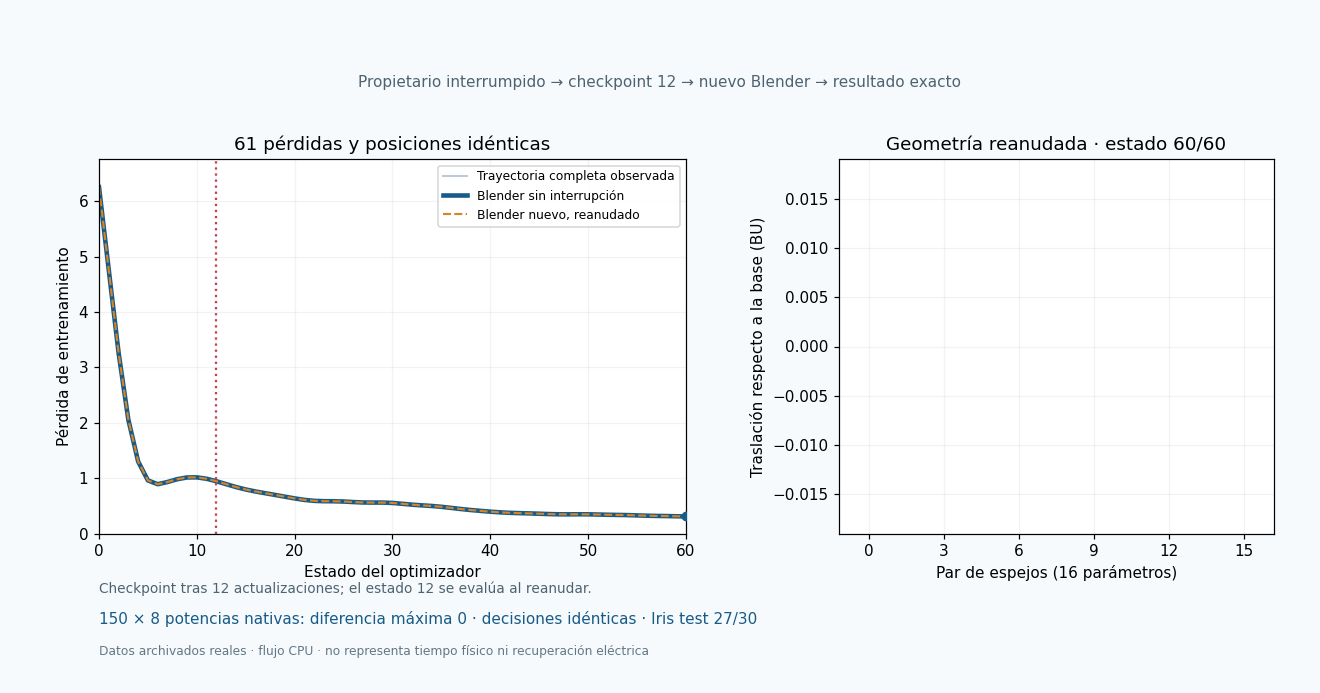
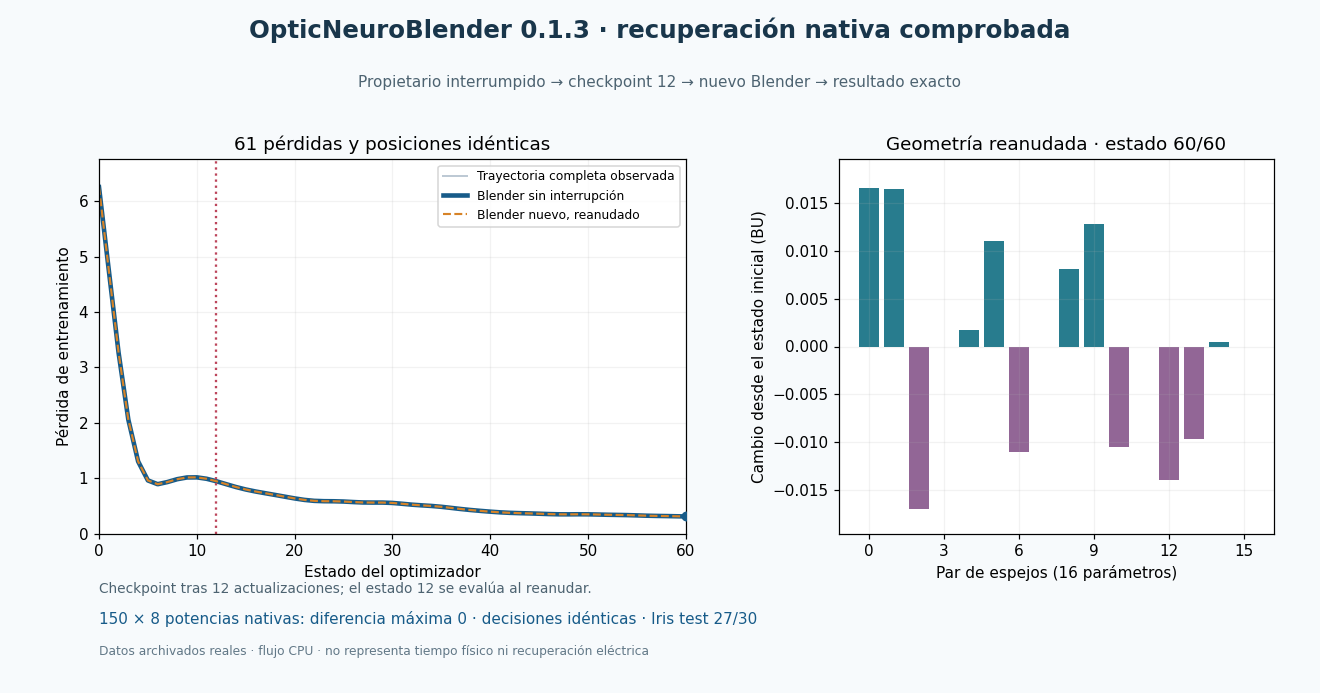
Keep animated recovery title visible and show change from untrained initial state

Changed region(s): [[0.5591, 0.2727, 0.9318, 0.7576], [0.1864, 0.0303, 0.8076, 0.0606], [0.5902, 0.697, 0.6523, 0.7273]]

diff --git a/Tools/build_verified_recovery_animation_v1.py b/Tools/build_verified_recovery_animation_v1.py
@@ -21,7 +21,7 @@ def main():
     power=np.asarray(results[0]['all150_native_powers']);other=np.asarray(results[1]['all150_native_powers']);assert np.array_equal(power,other) and results[0]['all150_predictions']==results[1]['all150_predictions']
     assert results[1]['training']['recovery']['resume_step']==12 and results[1]['training']['recovery']['prefix_replay_verified']
     steps=np.arange(61);loss=np.asarray([r['train_loss'] for r in traces[0]])
-    translations=np.asarray([r['deltas_BU'] for r in traces[1]]);frames=[]
+    translations=np.asarray([r['deltas_BU'] for r in traces[1]]);translations=translations-translations[0];frames=[]
     fig,(left,right)=plt.subplots(1,2,figsize=(12,6.3),dpi=110,gridspec_kw={'width_ratios':[1.35,1]});fig.subplots_adjust(left=.075,right=.965,bottom=.23,top=.77,wspace=.3);fig.patch.set_facecolor('#f7fafc')
     for k in range(0,61,2):
         for ax in (left,right):ax.clear();ax.set_facecolor('white');ax.grid(alpha=.16)
@@ -31,8 +31,8 @@ def main():
         left.axvline(12,color='#bc455b',ls=':',lw=1.5);left.scatter([k],[loss[k]],color='#175b89',s=30,zorder=5)
         left.set(xlim=(0,60),ylim=(0,float(loss.max())*1.08),xlabel='Estado del optimizador',ylabel='Pérdida de entrenamiento',title='61 pérdidas y posiciones idénticas');left.legend(fontsize=8,loc='upper right')
         right.bar(np.arange(16),translations[k],color=['#287c8e' if v>=0 else '#926696' for v in translations[k]])
-        span=float(np.max(np.abs(translations)))*1.12;right.set(ylim=(-span,span),xlabel='Par de espejos (16 parámetros)',ylabel='Traslación respecto a la base (BU)',title=f'Geometría reanudada · estado {k}/60');right.set_xticks(np.arange(0,16,3))
-        fig.suptitle('OpticNeuroBlender 0.1.3 · recuperación nativa comprobada',x=.5,y=.945,fontsize=16,fontweight='bold',color='#19364b')
+        span=float(np.max(np.abs(translations)))*1.12;right.set(ylim=(-span,span),xlabel='Par de espejos (16 parámetros)',ylabel='Cambio desde el estado inicial (BU)',title=f'Geometría reanudada · estado {k}/60');right.set_xticks(np.arange(0,16,3))
+        fig.text(.5,.945,'OpticNeuroBlender 0.1.3 · recuperación nativa comprobada',ha='center',fontsize=16,fontweight='bold',color='#19364b')
         subtitle='Propietario interrumpido → checkpoint 12 → nuevo Blender → resultado exacto'
         fig.text(.5,.875,subtitle,ha='center',fontsize=10,color='#4d6371')
         fig.text(.075,.145,'Checkpoint tras 12 actualizaciones; el estado 12 se evalúa al reanudar.',fontsize=9,color='#4d6371')
